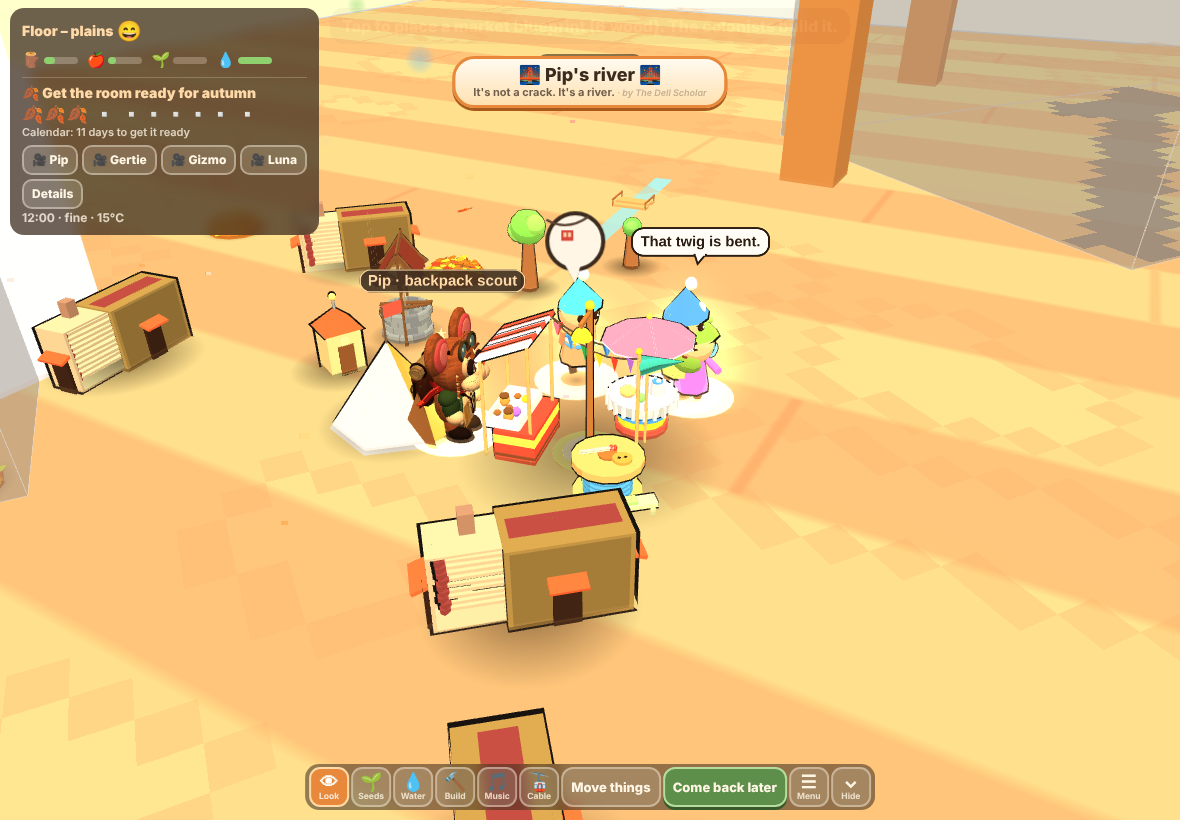
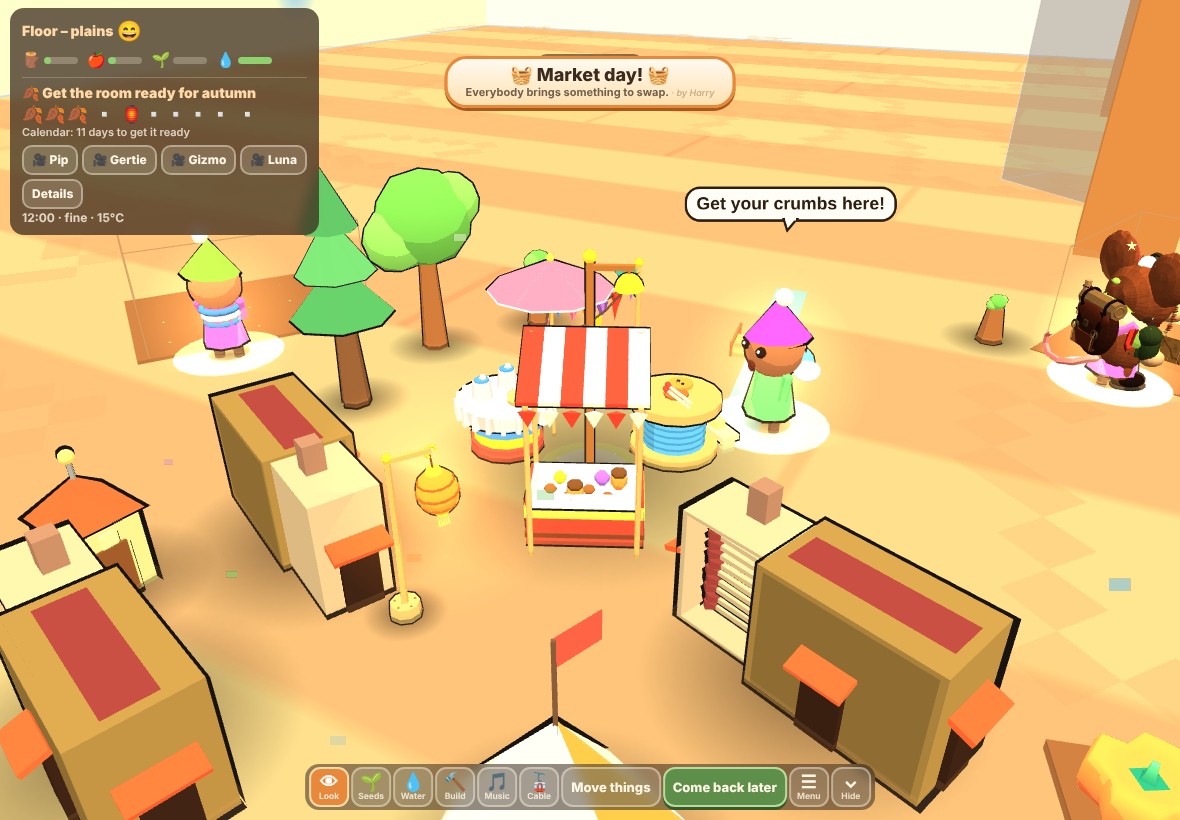
Base Camp build 23: market test passes 38/38, shots 74-77
Claude-Session: https://claude.ai/code/session_0171oc5wTsPoimaja7RRfUcs

diff --git a/games/base-camp/tests/market-test.js b/games/base-camp/tests/market-test.js
@@ -18,6 +18,9 @@ const WED = '2026-11-18', TUE = '2026-11-17';
   await ev(() => { __g.F10.on = false; for (const r of __g.G.requests.slice()) __g.resolveRequest(r, true); __g.F10.reqDone = true; });
   const shotPrep = () => ev(() => { for (const id of ['toast', 'env', 'sel']) { const e = document.getElementById(id); if (e) { if (id === 'toast') e.innerHTML = ''; else e.hidden = true; } } __g.CCAM && __g.camClose && __g.camClose(); });
   const focusMarket = (d, yaw, pitch) => ev(([d, yaw, pitch]) => { const st = __g.mktThings(true)[0]; if (!st) return false; const w = st.S.group.localToWorld(new __g.THREE.Vector3(st.t.x, 0, st.t.z)); __g.P.mode = 'orbit'; __g.P.campCam = false; __g.P.yaw = yaw; __g.P.pitch = pitch; __g.focusOn(w.x, w.y + 0.025, w.z, d); return true; }, [d, yaw, pitch]);
+  const focusVisitor = (id, d, rot, pitch) => ev(([id, d, rot, pitch]) => { /* look past the visitor at the market, from a little to the side, so the bubbles sit in the middle */
+    const st = __g.mktSite(); const v = st.S.cols.find((c) => c.id === id); if (!v) return false; const m = st.S.group.localToWorld(new __g.THREE.Vector3(st.t.x, 0, st.t.z)), w = st.S.group.localToWorld(new __g.THREE.Vector3(v.x, 0, v.z));
+    const a = Math.atan2(w.x - m.x, w.z - m.z) + rot; __g.P.mode = 'orbit'; __g.P.campCam = false; __g.P.yaw = a; __g.P.pitch = pitch; __g.focusOn((m.x + w.x) / 2, m.y + 0.04, (m.z + w.z) / 2, d); return true; }, [id, d, rot, pitch]);
 
   /* 1. the Market in the Build menu, locked on a Tuesday for a brand-new camp */
   ok('the Market is a build kind with a cost and a footprint', await ev(() => !!__g.KINDS.market && __g.KINDS.market.wood > 0 && __g.KINDS.market.r > 0.04 && __g.KINDS.market.name === 'Market'));
@@ -34,7 +37,9 @@ const WED = '2026-11-18', TUE = '2026-11-17';
   ok('Tuesday: nobody asks for a market', await ev(() => !__g.G.requests.some((r) => r.def.id === 'market')));
 
   /* 2. Wednesday with no market: a creature asks, the button opens the Build menu on the Market */
-  await setDate(WED, 12); await ev(() => __g.simulate(12));
+  await setDate(WED, 12);
+  /* requests wait while a banner shows (one voice at a time), so give it a little while */
+  for (let i = 0; i < 45; i++) { await ev(() => __g.simulate(5)); if (await ev(() => __g.G.requests.some((r) => r.def.id === 'market'))) break; await sleep(900); }
   const rq = await ev(() => { const r = __g.G.requests.find((q) => q.def.id === 'market'); __g.reqUi(); return r ? { who: r.who, text: r.def.text, card: document.getElementById('reqs').textContent } : null; });
   ok('market day, no market: a creature asks for one', !!rq && /market day/i.test(rq.text) && /nowhere to trade/.test(rq.text), JSON.stringify(rq));
   ok('the request card shows it with a Build it button', !!rq && /nowhere to trade/.test(rq.card) && /Build it/.test(rq.card));
@@ -58,10 +63,11 @@ const WED = '2026-11-18', TUE = '2026-11-17';
   ok('the request ends once the market is placed', await ev(() => !__g.G.requests.some((r) => r.def.id === 'market')));
   for (let i = 0; i < 20; i++) { if (await ev(() => __g.mktThings().length > 0)) break; await ev(() => __g.simulate(10)); }
   ok('the colonists finish building the market', await ev(() => __g.mktThings().length === 1));
-  await ev(() => { __g.setTool('look'); __g.simulate(1); }); await sleep(600);
+  await ev(() => { __g.setTool('look'); __g.simulate(1); });
+  for (let i = 0; i < 40; i++) { await sleep(500); if (/Market day!/.test(await ev(() => document.getElementById('banner').textContent))) break; }
   const opened = await ev(() => ({ open: __g.MKT.open, bell: __g.MKT.bell, banner: document.getElementById('banner').textContent, album: __g.FUN.album.some((e) => e.id === 'market') }));
   ok('it opens at once on a market day: the bell, a "Market day!" banner, an album entry', opened.open && opened.bell === '2026-11-18' && /Market day!/.test(opened.banner) && opened.album, JSON.stringify(opened));
-  await focusMarket(0.42, 0.5, 0.55); await shotPrep(); await sleep(1800);
+  await focusMarket(0.3, 0.5, 0.5); await shotPrep(); await sleep(1800);
   await p.screenshot({ path: OUT + '74-market-built.png' });
   const vis = await ev(() => { const st = __g.mktThings()[0], U = st.t.mesh.userData; return { goods: U.goods && U.goods.visible, covers: U.covers && U.covers.visible, pretty: !!U.bcMarket, draws: (() => { let n = 0; st.t.mesh.traverse((o) => { if ((o.isMesh || o.isSprite || o.isPoints) && o.visible) n++; }); return n; })() }; });
   ok('the stalls show their goods (covers off), the market.js model is used, under 12 draw calls', vis.goods && !vis.covers && vis.pretty && vis.draws <= 12, JSON.stringify(vis));
@@ -87,7 +93,7 @@ const WED = '2026-11-18', TUE = '2026-11-17';
   const linked = await ev(() => {
     const S = __g.mainSettlement(); S.stock.wood = Math.max(S.stock.wood, 20);
     const Zt = __g.G.zones.filter((Z) => !Z.settled && !Z.lost && !Z.ceil && Z.land && Z.area > 0.04 && Z !== S.zoneRef).sort((a, b) => Math.hypot(a.cx - S.zoneRef.cx, a.cz - S.zoneRef.cz) - Math.hypot(b.cx - S.zoneRef.cx, b.cz - S.zoneRef.cz))[0];
-    if (!Zt) return 'no zone'; __g.ensureDist(Zt); const l = __g.makeLink(S, S.zoneRef.core[0], S.zoneRef.core[1], Zt, Zt.core[0], Zt.core[1]); return l ? 'ok' : 'no link';
+    if (!Zt) return 'no zone'; __g.ensureDist(Zt); __g.ensureDist(S.zoneRef); const l = __g.makeLink(S, S.zoneRef.core[0], S.zoneRef.core[1], Zt, Zt.core[0], Zt.core[1]); return l ? 'ok' : 'no link';
   });
   for (let i = 0; i < 40; i++) { await ev(() => __g.simulate(10)); if (await ev(() => __g.G.settlements.some((S) => S !== __g.mktSite().S && !S.awaiting && S.cols.length >= 2))) break; }
   const two = await ev(() => { const A = __g.mktSite().S, B = __g.G.settlements.find((S) => S !== A && !S.awaiting && !S.lost); return B ? { b: B.id, pop: B.cols.length, link: __g.G.links.some((l) => l.ready && (l.a.sid === B.id || l.b.sid === B.id)) } : null; });
@@ -101,7 +107,7 @@ const WED = '2026-11-18', TUE = '2026-11-17';
     if (st.r) rode = true; if (st.v && !visitor) visitor = st.v;
     if (st.v && st.v.ph === 'do' && !seen76) { /* the trade picture: the visitor haggling at a stall */
       seen76 = true; await ev((id) => { const A = __g.mktSite().S, v = A.cols.find((c) => c.id === id); if (v) v.job.dur = 999; const o = A.cols.find((c) => c !== v && !c.inside && !(c.job && c.job.type === 'market')); if (o) __g.mktSend(o, A, __g.mktSite().t, (v.job.slot + 1) % 3); }, st.v.id);
-      await ev(() => __g.simulate(4)); await ev(() => { __g.MKT.talkT = 0; __g.MKT.reply = null; }); await focusMarket(0.3, 1.2, 0.4); await shotPrep(); await sleep(2700);
+      await ev(() => __g.simulate(4)); await ev(() => { __g.MKT.talkT = 0; __g.MKT.reply = null; }); await focusVisitor(st.v.id, 0.3, 0.9, 0.38); await shotPrep(); await sleep(2700);
       await p.screenshot({ path: OUT + '76-market-trade.png' });
       await ev((id) => { for (const S of __g.G.settlements) for (const c of S.cols) if (c.job && c.job.type === 'market') c.job.dur = c.id === id ? 0 : 1; }, st.v.id);
     }
@@ -126,7 +132,7 @@ const WED = '2026-11-18', TUE = '2026-11-17';
   const tue = await ev(() => ({ open: __g.MKT.open, req: __g.G.requests.some((r) => r.def.id === 'market'), info: __g.mktInfo(__g.mktThings()[0].t) }));
   ok('Tuesday: no market, no deals, no traders, no request', !tue.open && !tue.req && tueJobs === 0 && (await ev(() => __g.MKT.deals)) === dt0, JSON.stringify(tue));
   ok('a tap on the market on a Tuesday says when it opens', /Wednesday or Sunday/.test(tue.info) && /Harry/.test(tue.info));
-  await focusMarket(0.3, 0.9, 0.5); await shotPrep(); await sleep(1500);
+  await focusMarket(0.32, 0.9, 0.85); await shotPrep(); await sleep(1500);
   await p.screenshot({ path: OUT + '77-market-quiet.png' });
   const q = await ev(() => { const U = __g.mktThings()[0].t.mesh.userData; return { goods: U.goods.visible, covers: U.covers.visible }; });
   ok('Tuesday: the stalls stand empty with their covers on', !q.goods && q.covers, JSON.stringify(q));

diff --git a/games/base-camp/index.html b/games/base-camp/index.html
@@ -4008,7 +4008,7 @@ const MKT_HAGGLE = [['Two acorns for that button?', 'Deal!'], ['Is this thimble 
   ['I will give you a hug for it.', 'Sold!'], ['Is it a bargain?', 'A bargain-ish.'], ['Swap you a bottle top?', 'Only if it is shiny.'], ['Final offer: one sock fluff.', 'Hmm... deal.'], ['Any wobbly beads?', 'All my beads wobble.'], ['Is the water wet?', 'Very wet. Top quality.'], ['Three seeds and a smile?', 'Make it two smiles.']];
 const MKT_CALL = ['Seeds! Lovely seeds!', 'Get your crumbs here!', 'Matchsticks, two for a button!', 'Thimbles of water! Hardly sloshed!', 'Who wants a bead?'];
 const MKT_HOME = ['Home with goodies!', 'Look what I got!', 'Market was great!', 'I haggled! Twice!'];
-KINDS.market = { r: 0.062, wood: 6, work: 20, mk: () => marketMake(), name: 'Market', by: 'Harry and CAIRN', ic: '🧺' };
+KINDS.market = { r: 0.068, wood: 6, work: 20, mk: () => marketMake(), name: 'Market', by: 'Harry and CAIRN', ic: '🧺' };
 MILESTONES.market = ['🧺', 'Market day!', 'Everybody brings something to swap.', MKT_CREDIT];
 COLONY_ALMANAC.requests.push({ id: 'market', icon: 'stall', text: "It's market day and we've nowhere to trade! Could we build a market?", when: 'marketDay', give: 'market', joy: 0.3, cooldown: 1800 });
 CONDS.marketDay = (S) => mktIsDay() && !ENV.night && S === mainSettlement() && S.cols.length >= 1 && !mktAny();
@@ -4085,6 +4085,7 @@ function mktDeal(c, H, P, how) {
     else if (give) text = nm + ' swapped ' + mktQty(give, gn) + ' for ' + mktQty(craft, 1) + '.';
     else { const b = pick(MKT_CRAFT.filter((q) => q !== craft)); text = nm + ' swapped ' + mktQty(craft, 1) + ' for ' + mktQty(b, 1) + '.'; }
     if (how === 'parcel') text = text.replace(' swapped ', ' sent a parcel along the cable cars and swapped ');
+    else if (how === 'with') text = text.replace(/\.$/, ' with the ' + String(P.zoneName || 'other').split(' – ')[0] + ' camp.');
     MKT.xfer += moved;
   }
   MKT.deals++; const e = { text: 'Market day: ' + text, t: Date.now(), moved, a: H.id, b: P ? P.id : H.id }; MKT.log.push(e); if (MKT.log.length > 30) MKT.log.shift(); funLog('market', e.text);
@@ -4115,7 +4116,7 @@ function mktFinish(S, c, j, quiet) {
   const others = S.cols.filter((q) => q !== c && q.job && q.job.type === 'market' && q.job.ph === 'do'), oh = others.map((q) => (q.mkt ? G.settlements.find((s) => s.id === q.mkt.home) : S)).filter((q) => q && q !== H);
   let P = oh.length ? pick(oh) : H !== S ? S : null;
   if (!P) { const far = G.settlements.filter((q) => q !== H && !q.lost && !q.awaiting && !q.dead && q.cols.length); P = far.length && Math.random() < 0.5 ? pick(far) : H; }
-  const e = mktDeal(c, H, P, P !== H && P !== S && H === S ? 'parcel' : '');
+  const e = mktDeal(c, H, P, P !== H && P !== S && H === S ? 'with' : '');
   c.needs.joy = Math.min(1, c.needs.joy + 0.15); for (const q of others) q.needs.joy = Math.min(1, q.needs.joy + 0.05);
   if (!quiet) { c.hop = 1; c.cheerT = 1.2; const [wx, wz] = l2w(S, c.x, c.z); puff('heart', wx, SY(S, 0.05), wz, 2, { size: 0.009, life: 1.3 }); sfx('pop', 1, SND_colPos(c)); }
   endJob(c);

diff --git a/games/base-camp/HANDOVER.md b/games/base-camp/HANDOVER.md
@@ -460,7 +460,7 @@ From `base-camp-first10/REPLAY_BUILD20.md` (5/10): the first night was still fro
 
 ## Market day (bc-market, BUILD = 'build 23'; the idea is Harry's, the stalls and lines by CAIRN)
 On Wednesdays and Sundays (the game's date: the device, or `ENV.dateOverride`) the colonies hold a market. All of it is one block, `MKT` (search "MARKET DAY"), just before "save / load / return", plus the model file `models/market.js`.
-- **The Market** (`KINDS.market`, 6 wood, 20 s of work, r 0.062) is in the Build menu as a FUN_BUILD. `funUnlocked('market')`: 2 built huts, or 4 colonists, or any market day; once unlocked it stays (`MKT.unl`, saved). Hint: "with 2 huts, or on a market day".
+- **The Market** (`KINDS.market`, 6 wood, 20 s of work, r 0.068) is in the Build menu as a FUN_BUILD. `funUnlocked('market')`: 2 built huts, or 4 colonists, or any market day; once unlocked it stays (`MKT.unl`, saved). Hint: "with 2 huts, or on a market day".
 - **Model**: `models/market.js` (`window.BC_MARKET_MK`, loaded after decor.js; `init({THREE, BCP, bcMerge, M})`, then `market()`): a matchbox stall with a striped awning, a bottle-cap counter on three buttons under a cocktail umbrella, a thread-spool table with a pennant, a bell post and a ring of bunting. Built like decor.js (one merged body + one ink hull; goods, covers and the bell are their own meshes; about 8 draw calls), drawn at `SC` 1.3. `userData`: `goods` (shown while open), `covers` (checked tea towels on quiet days and at night), `bell` (swings when the bell rings), `slots` (where traders stand). Missing file, `BCP.marketOff` or a throw: `mkMarketPlain()` (three festival stalls).
 - **The day**: `mktSim` (from `simTick`) opens the market from `MKT_OPEN` 8:00 to `MKT_SHUT` 17:30 on a market day, never at night (`mktOpenAt`). Opening (once per date, `MKT.bell`): the market bell (`sfx('mbell')`), a "Market day!" banner through the normal banner queue (album milestone `market` the first time), a toast. Every 45 s (30 s while the Giant is caring) `mktRound`: one or two locals walk to a stall (`market` job; `mktJob`/`mktFinish`), and every camp with a ready cable car to the market camp sends one trader (`c.mkt = {home, ph: 'go'|'back', lid}`, a little bundle on the back) who rides over (`cross` job; `arriveAt` calls `mktArrive`), trades and rides home. Camps with no direct line send a parcel (a deal with no walker). Closing: jobs end, a toast with the number of swaps, a little joy. `mktStrays` sends any visitor left over (night, a save, the away time) home by cable car.
 - **Deals** (`mktDeal`): the trader's home camp gives what it has more than enough of (`MKT_GOODS` "enough": wood 8, food 6, seeds 3, water 5) to a camp short of it, and gets back what it is short of, up to 3 each. Nothing to swap: crafted bits (a button for an acorn cap), no stock moves. One camp alone: two of a spare thing for one short thing, "with" a neighbour. Every deal is a line "Market day: Gertie swapped three seeds for a thimble of water." in `MKT.log` (last 8 saved); `MKT.xfer` counts units moved between camps, `MKT.visits` traders who arrived by cable car.
